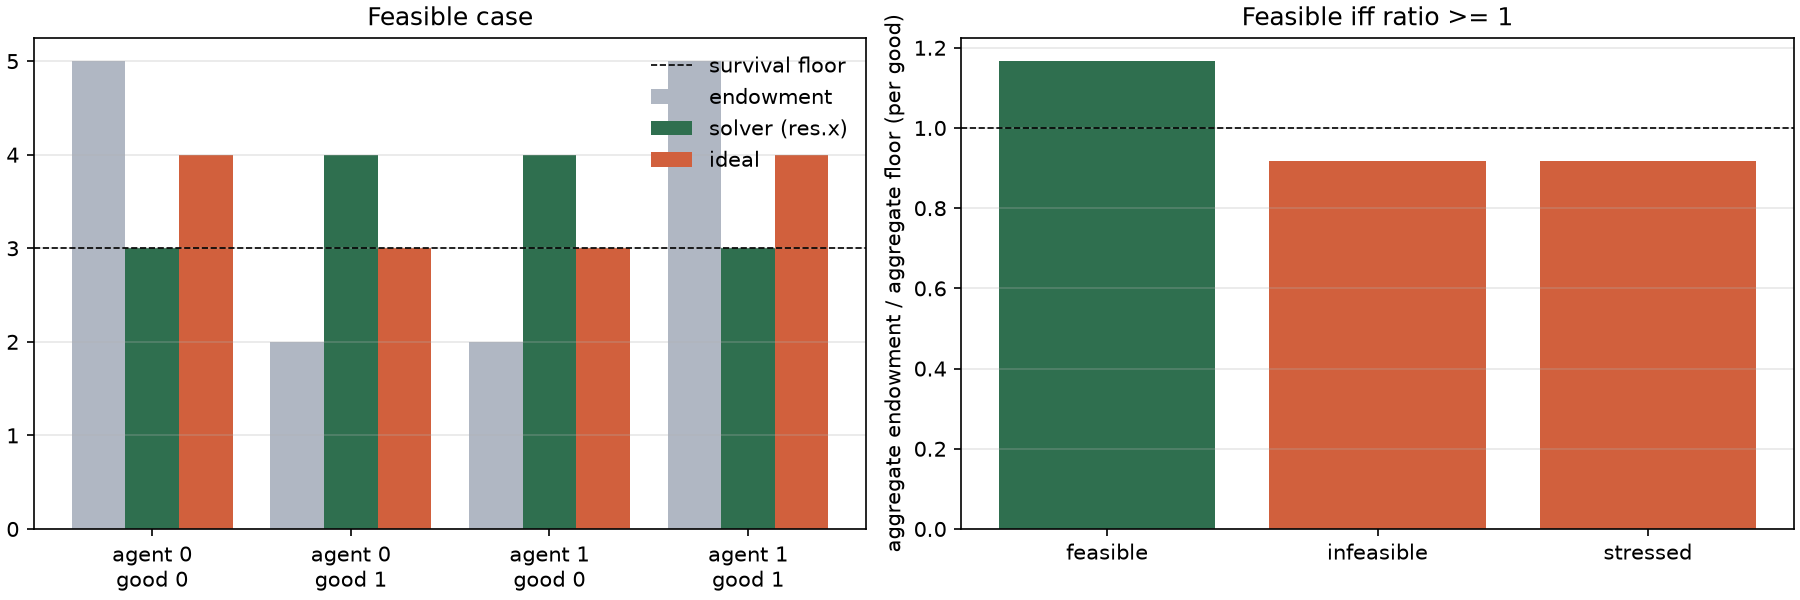
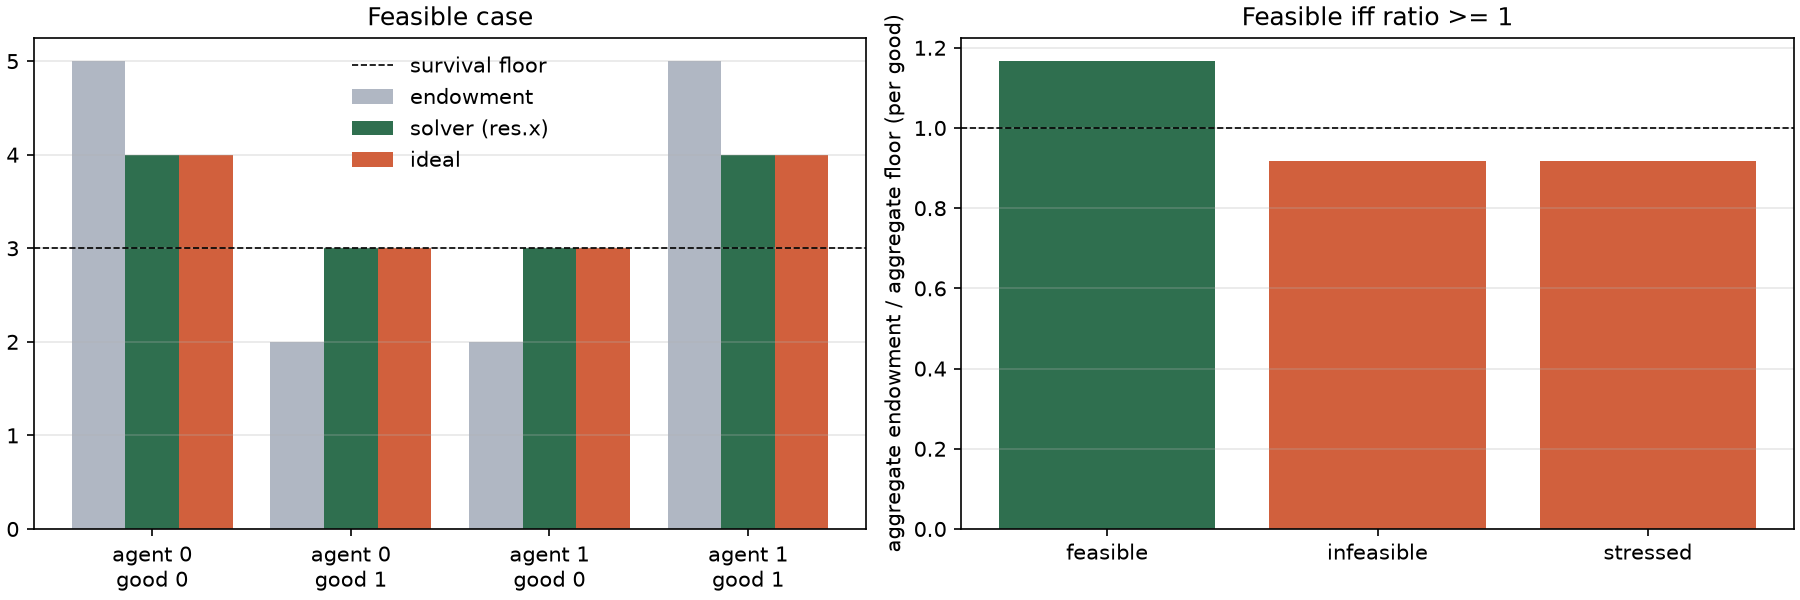
Assert minor inconsistencies

diff --git a/custom_rockafellian.py b/custom_rockafellian.py
@@ -58,7 +58,7 @@ class WalrasianProblem():
         """
         total = 0
         for i in range(self.agents):
-            total += sum([endowments[min((i-1)*self.goods, 0) + j] * coeficients[i][j] for j in range(self.goods)])
+            total += sum([endowments[i*self.goods + j] * coeficients[i][j] for j in range(self.goods)])
         return -total
 
     def sum_non_linear(self, endowments, coeficients, verbose = False):
@@ -81,7 +81,7 @@ class WalrasianProblem():
         """
         total = 0
         for i in range(self.agents):
-            partial = [(coeficients[i][j][0] * endowments[min((i-1)*self.goods, 0) + j] ** coeficients[i][j][1]) for j in range(self.goods)]
+            partial = [(coeficients[i][j][0] * endowments[i*self.goods + j] ** coeficients[i][j][1]) for j in range(self.goods)]
             utility = sum(partial)
             total += utility
             if verbose:
@@ -142,11 +142,11 @@ class WalrasianProblem():
         
         matrix = np.zeros((self.goods, self.agents*self.goods))
         for l in range(self.goods):
-            matrix[l][l::self.agents] = 1
+            matrix[l][l::self.goods] = 1
         amount = self.goods*[0]
         for l in range(self.goods):
             amount[l] = sum(self.endowments[l::self.goods])
-        lb = amount
+        lb = [-np.inf] * self.goods
         ub = amount
         linear_constraint = LinearConstraint(matrix, lb, ub)
         
@@ -173,7 +173,7 @@ class WalrasianProblem():
         print(self.objective(res.x, self.args, True))
         return res
 
-    def sum_non_linear_penalized(self, endowments, coeficients, survival_floor, penalty, verbose = False):
+    def sum_non_linear_penalized(self, endowments, coeficients, initial_endowment, penalty, verbose = False):
         """Calculate negative nonlinear utility plus a quadratic-style penalty.
 
         Parameters
@@ -182,7 +182,7 @@ class WalrasianProblem():
             Flattened allocation vector for all agents.
         coeficients : array-like
             Utility coefficients and exponents for each agent and good.
-        survival_floor : array-like
+        initial_endowment : array-like
             Reference lower-bound vector used to measure constraint violation.
         penalty : float
             Nonnegative penalty weight applied to the distance from the floor.
@@ -194,13 +194,12 @@ class WalrasianProblem():
         float
             Negative aggregate utility plus the penalization term.
         """
-        
-        v = np.linalg.norm(endowments - survival_floor)
+        v = np.sum(np.maximum(sum(endowments - initial_endowment), 0)**2)
         total_penalty = (penalty/2)*v
 
         total = 0
         for i in range(self.agents):
-            partial = [(coeficients[i][j][0] * endowments[min((i-1)*self.goods, 0) + j] ** coeficients[i][j][1]) for j in range(self.goods)]
+            partial = [(coeficients[i][j][0] * endowments[i*self.goods + j] ** coeficients[i][j][1]) for j in range(self.goods)]
             utility = sum(partial)
             total += utility
             if verbose:
@@ -230,20 +229,22 @@ class WalrasianProblem():
         iteration = 0
         tol = 10**(-7)
         not_stationary = True
-        self.objective = self.sum_non_linear_penalized
+        self.relaxed_objective = self.sum_non_linear_penalized
 
         def get_v(x):
-            return sum(x - self.endowments)
+            v = np.sum(np.maximum(sum(x - self.endowments), 0)**2)
+            return v
         
         res_trajectory = []
         v_trajectory = []
+        initial_x = self.endowments
         while not_stationary:
-            self.relaxation_args = (self.args, self.survival_floor, self.lambdas[iteration])
-            res = minimize(self.objective, self.endowments, args = self.relaxation_args,
+            self.relaxation_args = (self.args, self.endowments, self.lambdas[iteration])
+            res = minimize(self.relaxed_objective, initial_x, args = self.relaxation_args,
                             method = "trust-constr", bounds = self.survival_bounds)
 
             v_trajectory.append(get_v(res.x))
-            
+            initial_x = res.x
             if iteration > 0:
                 advance = np.linalg.norm(res.x - res_trajectory[-1].x)
                 if advance < tol:
@@ -255,7 +256,7 @@ class WalrasianProblem():
 
         print("Optimal x: ", res.x)
         print(res.success, res.message)
-        print(self.objective(res.x, self.args, self.survival_floor, self.relaxation_args[-1], True))
+        print(self.relaxed_objective(res.x, self.args, self.endowments, self.relaxation_args[-1], True))
 
         self.result = {"res_trajectory": res_trajectory,
                        "lambdas": self.lambdas,
@@ -334,7 +335,7 @@ def various_plots(problem, result_relaxed, result_original, endowments, survival
 
     for a in axs.ravel():
         a.grid(alpha=0.3)
-    fig.suptitle("Relaxation with the original code: stressed economy", fontsize=14)
+    fig.suptitle("Relaxation: stressed economy", fontsize=14)
     fig.savefig("relaxation_dashboard.png", dpi=150); plt.close(fig)
 
     # Feasible case + feasibility ratio of the three scenarios
